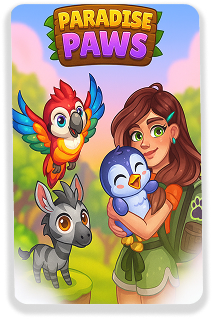
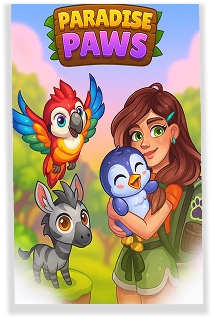
steps

diff --git a/src/partials/steps.html b/src/partials/steps.html
@@ -1,0 +1,55 @@
+<section class="steps" id="steps">
+  <div class="container">
+    <div class="steps-container">
+      <h2 class="steps-title">How It Works</h2>
+      <h3 class="steps-description">
+        3 Steps to Animal Rescue & Habitat Building
+      </h3>
+      <ul class="steps-list">
+        <li class="steps-items">
+          <picture>
+            <source
+              srcset="/img/steps/step1.jpg 1x, /img/steps/step1@2x.jpg 2x"
+              type="image/webp" />
+            <img
+              src="/img/steps/step1.jpg"
+              alt="how to play - step one"
+              loading="lazy"
+              decoding="async"
+              class="steps-img"
+          /></picture>
+        </li>
+        <li class="steps-items">
+          <picture>
+            <source
+              srcset="/img/steps/step2.webp 1x, /img/steps/step2@2x.webp 2x"
+              type="image/webp" />
+            <img
+              src="/img/steps/step2.webp"
+              alt="how to play - step one"
+              loading="lazy"
+              decoding="async"
+              class="steps-img"
+          /></picture>
+        </li>
+        <li class="steps-items">
+          <picture>
+            <source
+              srcset="/img/steps/step3.jpg 1x, /img/steps/step3@2x.jpg 2x"
+              type="image/webp" />
+            <img
+              src="/img/steps/step3.jpg"
+              alt="how to play - step one"
+              loading="lazy"
+              decoding="async"
+              class="steps-img"
+          /></picture>
+        </li>
+      </ul>
+      <p class="steps-text">
+        Each level offers relaxing gameplay with strategic depth and adorable
+        outcomes!
+      </p>
+    </div>
+  </div>
+</section>

diff --git a/src/css/steps.css b/src/css/steps.css
@@ -1,0 +1,45 @@
+.steps {
+	font-family: "Montserrat", sans-serif;
+}
+
+.container {}
+
+.steps-container {}
+
+.steps-title {
+	font-weight: 600;
+	font-size: 24px;
+	line-height: 125%;
+	text-align: center;
+	margin-bottom: 24px;
+}
+
+.steps-description {
+	font-weight: 500;
+	font-size: 20px;
+	line-height: 145%;
+	text-align: center;
+	margin-bottom: 24px;
+}
+
+.steps-list {
+	display: flex;
+	flex-direction: column;
+	align-items: center;
+	justify-content: center;
+	gap: 24px;
+}
+
+.steps-items {
+	/*border: 1px solid #000;*/
+	border-radius: 10px;
+	width: 250px;
+	height: 250px;
+	overflow: hidden;
+}
+
+.steps-img {}
+
+.steps-text {
+	display: none;
+}

diff --git a/src/css/hero.css b/src/css/hero.css
@@ -74,10 +74,18 @@
 	overflow: hidden;
 	box-shadow: 0 5px 4px 5px rgba(0, 0, 0, 0.15);
 	transform: rotate(-19deg);
+	/* приклад, підганяй під дизайн */
+	/*background-color: #ffc482;
+	background-image: url("../img/hero/Photo-mobile.jpg");
+	background-size: cover;
+	background-position: center;
+	background-repeat: no-repeat;*/
 }
 
 .hero-img {
-	height: 100%;
+	display: block;
+	height: 101%;
+	/*object-fit: cover;*/
 }
 
 @media only screen and (min-width: 1200px) {

diff --git a/src/partials/modal menu.html b/src/partials/modal menu.html
@@ -10,7 +10,7 @@
             <a href="#about" class="nav-link">About the Game </a>
           </li>
           <li class="nav-item-modal">
-            <a href="#How It Works" class="nav-link">How It Works</a>
+            <a href="#steps" class="nav-link">How It Works</a>
           </li>
           <li class="nav-item-modal">
             <a href="#Key Features" class="nav-link">Key Features</a>

diff --git a/src/css/footer.css b/src/css/footer.css
@@ -9,7 +9,7 @@ footer {
   background-color: #fff;
 }
 
-.container {
+footer .container {
   width: 100%;
   max-width: 1200px;
   margin: 0 auto;
@@ -120,7 +120,7 @@ footer {
     min-width: 400px;
   }
 
-  .wrap-two{
+  .wrap-two {
     margin-top: 24px;
   }
 
@@ -150,33 +150,3 @@ footer {
     font-size: 16px;
   }
 }
-
-
-
-
-
-
-
-
-
-
-
-
-
-
-
-
-
-
-
-
-
-
-
-
-
-
-
-
-
-

diff --git a/src/partials/header.html b/src/partials/header.html
@@ -27,7 +27,7 @@
           <a href="#about" class="nav-link">About the Game </a>
         </li>
         <li class="nav-item">
-          <a href="#How It Works" class="nav-link">How It Works</a>
+          <a href="#steps" class="nav-link">How It Works</a>
         </li>
         <li class="nav-item">
           <a href="#Key Features" class="nav-link">Key Features</a>

diff --git a/src/index.html b/src/index.html
@@ -37,6 +37,7 @@
       <!-- Loads the specified .html file -->
       <load src="./partials/hero.html" />
       <load src="./partials/about.html" />
+      <load src="./partials/steps.html" />
       <load src="./partials/achievements.html" />
       <load src="./partials/atmosphere.html" />
       <load src="./partials/experience.html" />

diff --git a/src/css/header.css b/src/css/header.css
@@ -1,7 +1,11 @@
 .header {
 	position: sticky;
 	top: 0;
-	width: 100%;
+	left: 0;
+	right: 0;
+	width: 100vw;
+	max-width: 100%;
+	margin: 0 auto;
 	z-index: 100;
 	line-height: 120%;
 	margin-bottom: 24px;
@@ -9,7 +13,7 @@
 
 .header .container {
 	width: 100%;
-	margin: 0;
+	margin: 0 auto;
 	padding: 0;
 }
 

diff --git a/src/css/styles.css b/src/css/styles.css
@@ -14,6 +14,7 @@
 @import url('./header.css');
 @import url('./hero.css');
 @import url('./about.css');
+@import url('./steps.css');
 @import url('./achievements.css');
 @import url('./atmosphere.css');
 @import url('./experience.css');

diff --git a/src/css/container.css b/src/css/container.css
@@ -1,7 +1,7 @@
 /*Базові стилі */
 .container {
   width: 100%;
-  max-width: 100%;
+  max-width: 320px;
   margin: 0 auto;
   padding: 0 16px;
   box-sizing: border-box;
